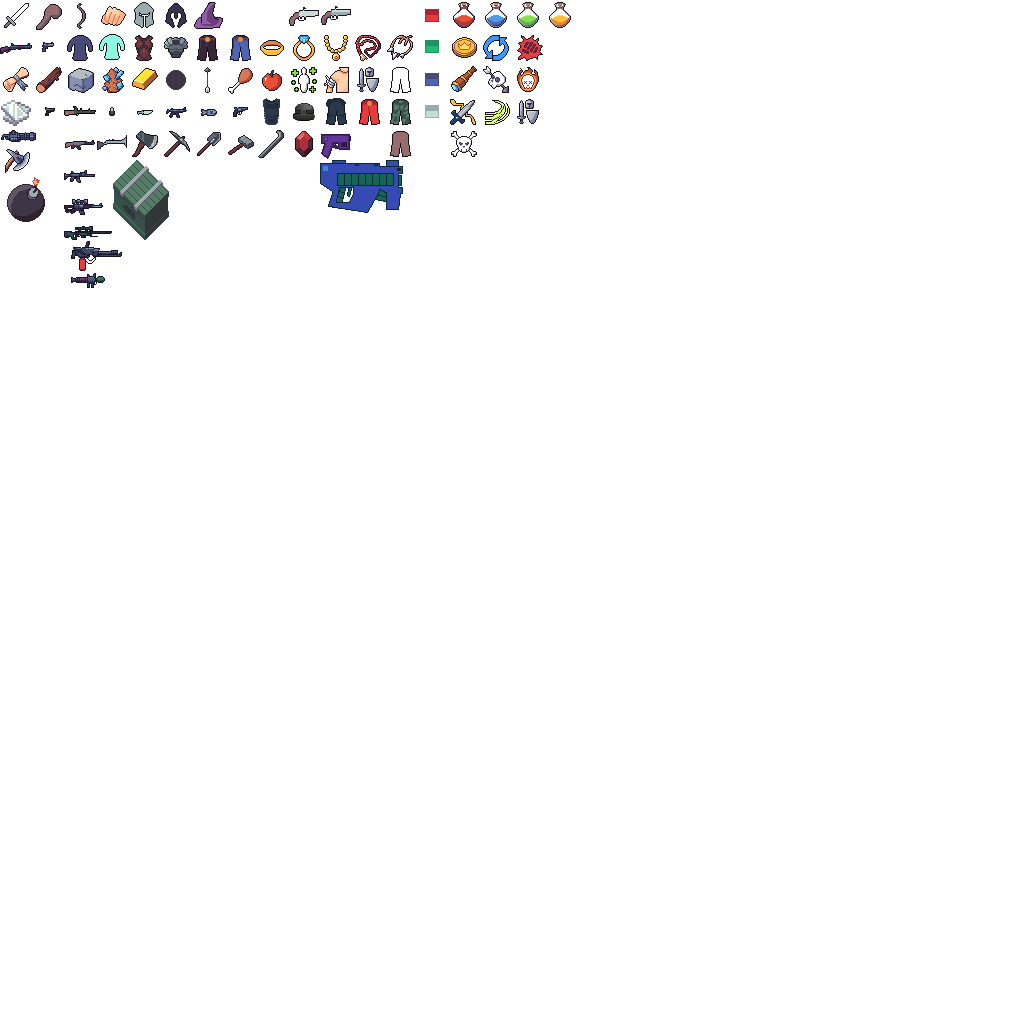
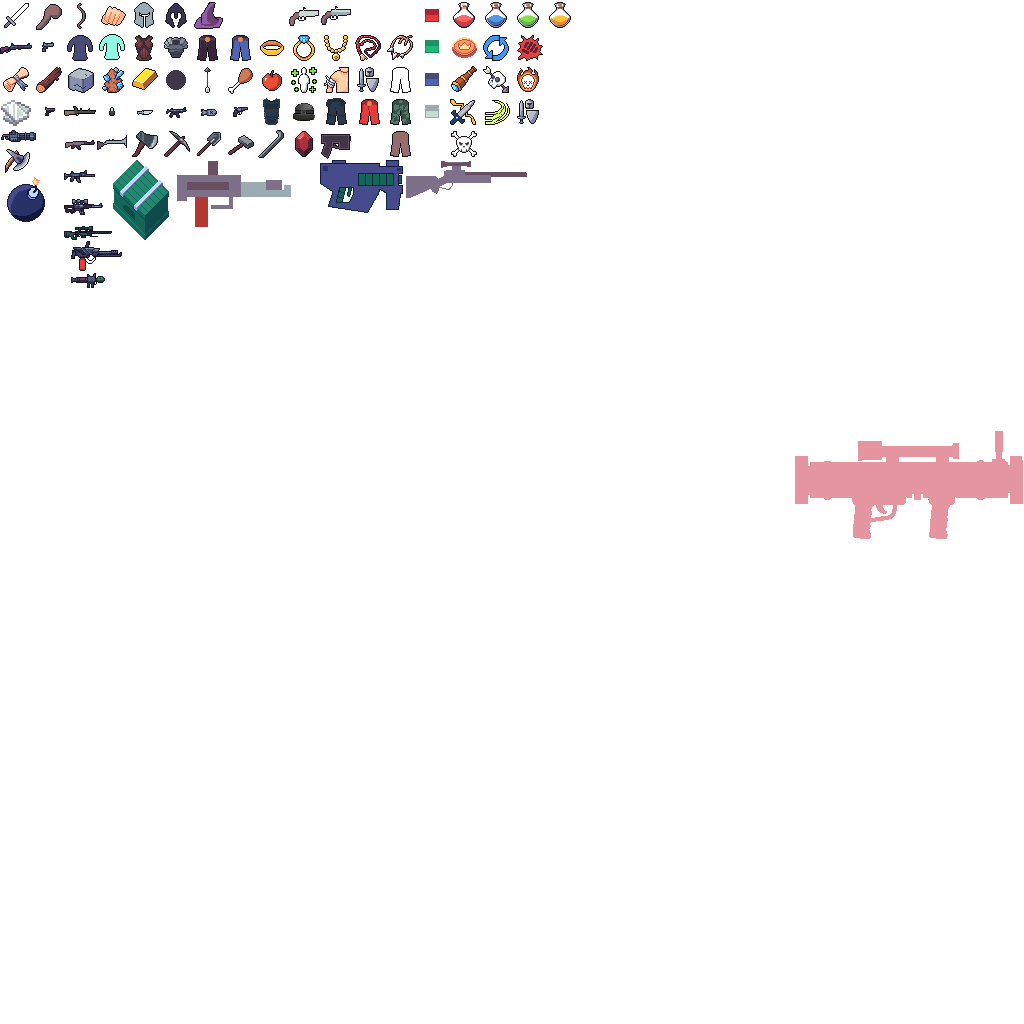
0.7.781

diff --git a/gamestream_flutter/lib/game_atlas.dart b/gamestream_flutter/lib/game_atlas.dart
@@ -78,9 +78,9 @@ class AtlasItems {
         ItemType.Weapon_Ranged_Musket: 64,
         ItemType.Weapon_Ranged_Plasma_Rifle: 320,
         ItemType.Weapon_Ranged_Machine_Gun: 704,
-        ItemType.Weapon_Ranged_Sniper_Rifle: 845,
+        ItemType.Weapon_Ranged_Sniper_Rifle: 406,
         ItemType.Weapon_Ranged_Smg: 783,
-        ItemType.Weapon_Ranged_Flamethrower: 782,
+        ItemType.Weapon_Ranged_Flamethrower: 177,
         ItemType.Weapon_Ranged_Bazooka: 795,
         ItemType.Weapon_Ranged_Minigun: 1,
         ItemType.Weapon_Ranged_Plasma_Pistol: 321,
@@ -184,9 +184,9 @@ class AtlasItems {
         ItemType.Weapon_Ranged_Musket: 96,
         ItemType.Weapon_Ranged_Plasma_Rifle: 160,
         ItemType.Weapon_Ranged_Machine_Gun: 236,
-        ItemType.Weapon_Ranged_Sniper_Rifle: 383,
+        ItemType.Weapon_Ranged_Sniper_Rifle: 161,
         ItemType.Weapon_Ranged_Smg: 85,
-        ItemType.Weapon_Ranged_Flamethrower: 545,
+        ItemType.Weapon_Ranged_Flamethrower: 161,
         ItemType.Weapon_Ranged_Bazooka: 431,
         ItemType.Weapon_Ranged_Minigun: 130,
         ItemType.Weapon_Ranged_Plasma_Pistol: 134,
@@ -230,8 +230,8 @@ class AtlasItems {
         ItemType.GameObjects_Neon_Sign_02: 21,
         ItemType.GameObjects_Vending_Upgrades: 39,
         ItemType.GameObjects_Pipe_Vertical: 8,
-        ItemType.Weapon_Ranged_Sniper_Rifle: 178,
-        ItemType.Weapon_Ranged_Flamethrower: 241,
+        ItemType.Weapon_Ranged_Sniper_Rifle: 121,
+        ItemType.Weapon_Ranged_Flamethrower: 114,
         ItemType.Weapon_Ranged_Bazooka: 228,
         ItemType.Weapon_Ranged_Minigun: 35,
         ItemType.Weapon_Ranged_Rifle: 429,
@@ -274,7 +274,7 @@ class AtlasItems {
         ItemType.GameObjects_Neon_Sign_02: 33,
         ItemType.GameObjects_Vending_Upgrades: 94,
         ItemType.GameObjects_Pipe_Vertical: 40,
-        ItemType.Weapon_Ranged_Sniper_Rifle: 44,
+        ItemType.Weapon_Ranged_Sniper_Rifle: 37,
         ItemType.Weapon_Ranged_Bazooka: 108,
         ItemType.Weapon_Ranged_Minigun: 12,
         ItemType.Weapon_Ranged_Rifle: 83,
@@ -283,7 +283,7 @@ class AtlasItems {
         ItemType.Weapon_Ranged_Plasma_Rifle: 53,
         ItemType.Weapon_Ranged_Shotgun: 48,
         ItemType.Weapon_Ranged_Plasma_Pistol: 25,
-        ItemType.Weapon_Ranged_Flamethrower: 101,
+        ItemType.Weapon_Ranged_Flamethrower: 66,
         ItemType.Weapon_Thrown_Grenade: 45,
         ItemType.Consumables_Ammo_Box: 80,
   }[itemType] ?? size;

diff --git a/bleed-common/lib/src/version.dart b/bleed-common/lib/src/version.dart
@@ -1,4 +1,4 @@
-const version = '0.7.480';
+const version = '0.7.481';
 
 
 

diff --git a/bleed-server/lib/common/src/version.dart b/bleed-server/lib/common/src/version.dart
@@ -1,4 +1,4 @@
-const version = '0.7.480';
+const version = '0.7.481';
 
 
 
